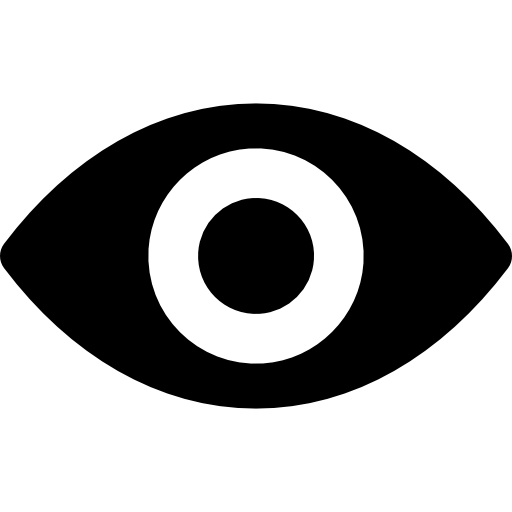
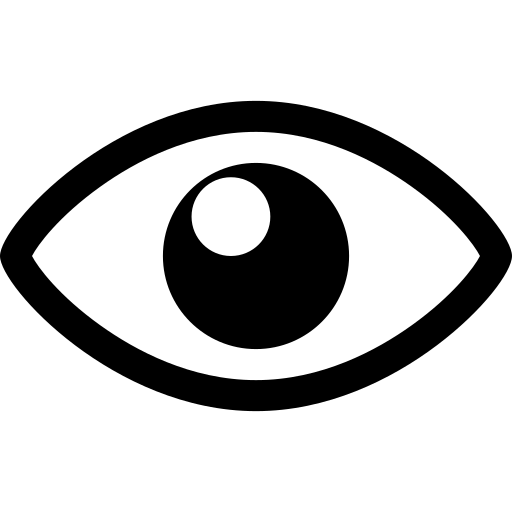
terceiro commit

diff --git a/HTML/Cadastrar.html b/HTML/Cadastrar.html
@@ -44,7 +44,7 @@
                       <div class="label-float">
                          <input type="password" id="senha" placeholder=" " required>
                          <label id="labelSenha" for="senha">Senha</label>
-                         <img class="eyeSvg" id="eyeSvg1" onclick="eyeClick()" src="/Imagens/eye-fill.svg">
+                         <img class="eyeSvg" id="eyeSvg1" onclick="eyeClick()" src="../Imagens/eye.png">
                           <i class="fa fa-eye" aria-hidden="true"></i>
                           
                       </div>
@@ -53,7 +53,7 @@
                          <input type="password" id="confirmSenha" placeholder=" " required>
                          <label id="labelConfirmSenha" for="confirmSenha">Confirmar Senha</label>
                          <i id="verConfirmSenha" class="fa fa-eye" aria-hidden="true"></i>
-                         <img class="eyeSvg" id="eyeSvg2" onclick="eyeClick()" src="/Imagens/eye-fill.svg">
+                         <img class="eyeSvg" id="eyeSvg2" onclick="eyeClick()" src="../Imagens/eye.png">
                       </div>
                       
                       <div class='justify-center'>

diff --git a/HTML/PetSpace.html b/HTML/PetSpace.html
@@ -123,7 +123,7 @@
         <img class="d-block w-100" src="../Imagens/dog_1.webp" alt="Primeiro Slide">
       </div>
       <div class="carousel-item">
-        <img class="d-block w-100" src="../Imagens/dog_2.jpg" alt="Segundo Slide">
+        <img class="d-block w-100" src="../Imagens/dog_20.jpeg" alt="Segundo Slide">
       </div>
       <div class="carousel-item">
         <img class="d-block w-100" src="../Imagens/dog_3.jpg" alt="Terceiro Slide">
@@ -1737,7 +1737,7 @@
   </nav>
 
   <div class="lg:py-10 py-5" style="background-color:rgb(237, 195, 6); text-align: center">
-    <h1 class="title-lg" style="font-size: 50px;">Alguns pets que ja foram adotados</h1>
+    <h1 class="title-lg" style="font-size: 50px;">Alguns pets que já foram adotados</h1>
     <p class="mt-3 sm:mt-4">
     </p>
     <div class="text-xl text-gray-500" style="font-size: 30px;">Olha só estes rostinhos, eles estão muito felizes

diff --git a/CSS/Login.css b/CSS/Login.css
@@ -61,7 +61,7 @@ h1{
 }
 
 .label-float label{
-  color: #ffffff;
+  color: #000000;
   pointer-event: none;
   position: absolute;
   top: 0;
@@ -92,8 +92,8 @@ button{
 }
 
 button:hover{
-    background-color: #37ff00;
-  color: #fff;
+    background-color: #37ff0000;
+  color: #000000;
 }
 
 .justify-center{
@@ -126,7 +126,7 @@ a:hover{
 
 .fa-eye{
   position: absolute;
-  top: 15px;
+  top: 22px;
   right: 10px;
   cursor: pointer;
   color: #000000;

diff --git a/HTML/Parcerias.html b/HTML/Parcerias.html
@@ -55,7 +55,7 @@
     <nav class="nav" style="z-index: 999;">
       <div class="container">
         <div class="logo">
-          <a href="#">PET SPACE</a>
+          <a href="../HTML/PetSpace.html">PET SPACE</a>
         </div>
         <a href="../HTML/Login.html">
           <button type="button" class="btn btn-outline-light btn-lg" data-toggle="modal" style="margin-right: 10px;"

diff --git a/CSS/Cadastrar.css b/CSS/Cadastrar.css
@@ -32,6 +32,12 @@
     right: 10px;
     cursor: pointer;
     color: #000000;
+    width: 20px;
+  }
+
+  .eyeSvg2{
+
+
   }
 
   * {
